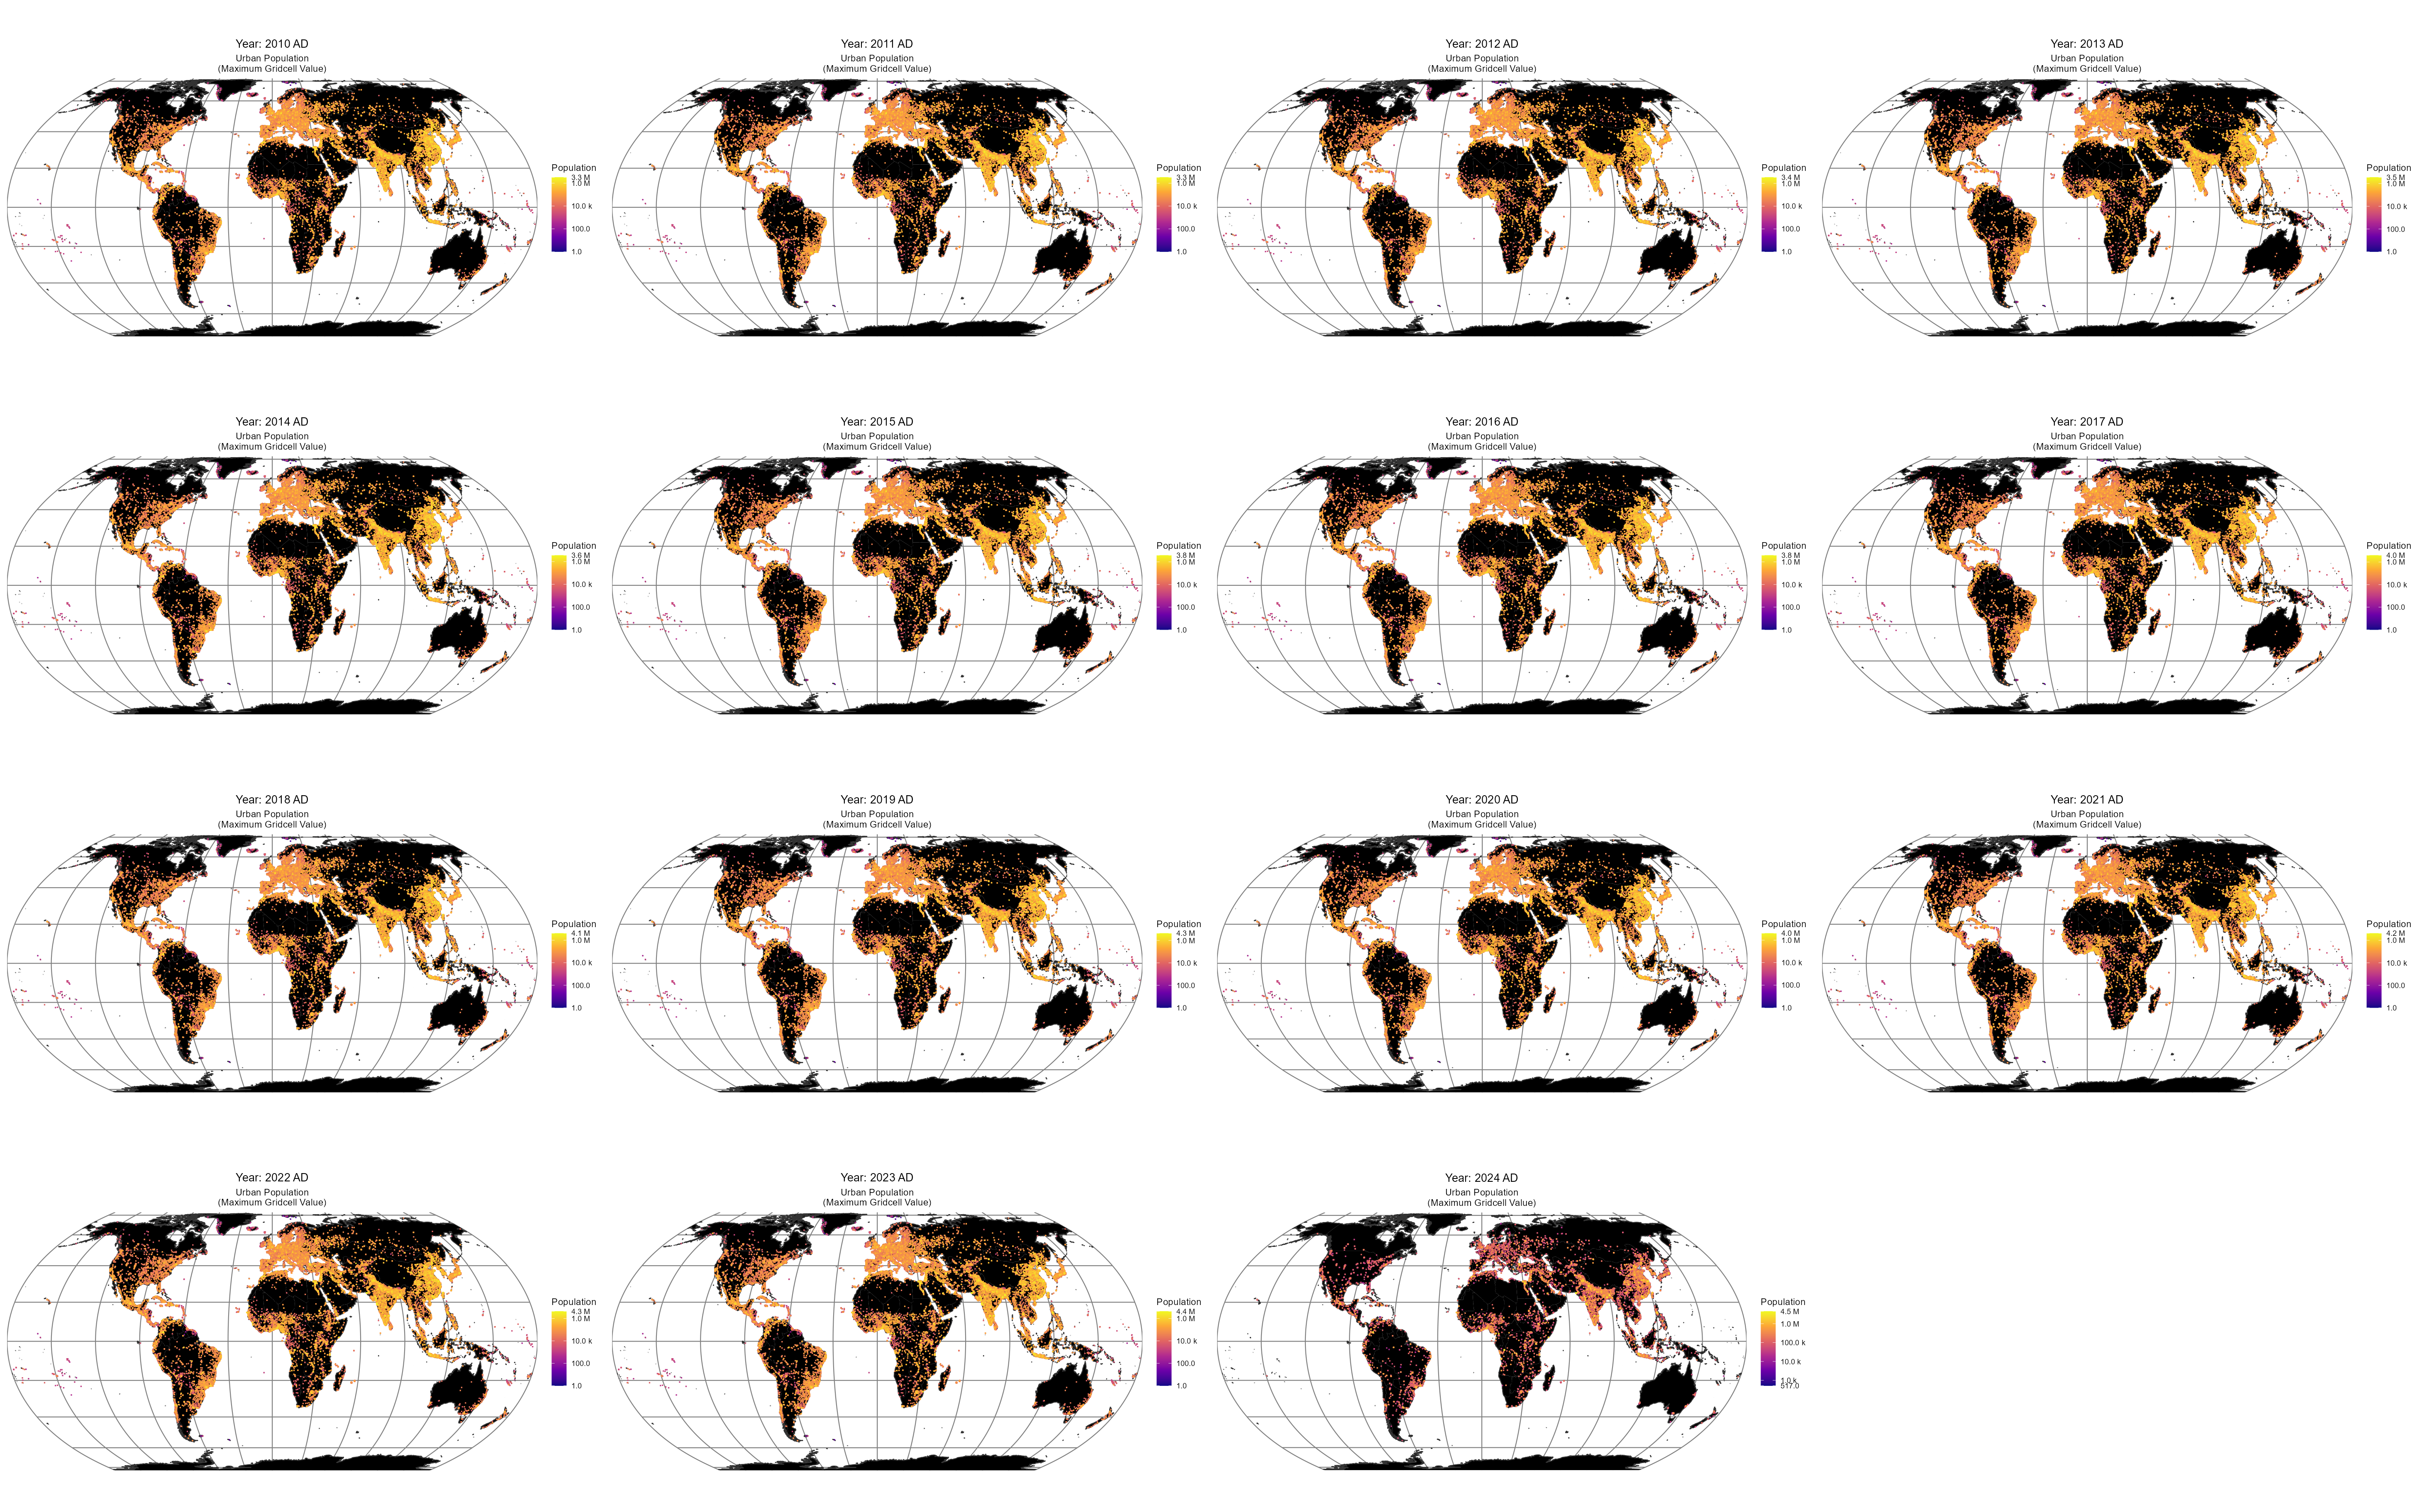
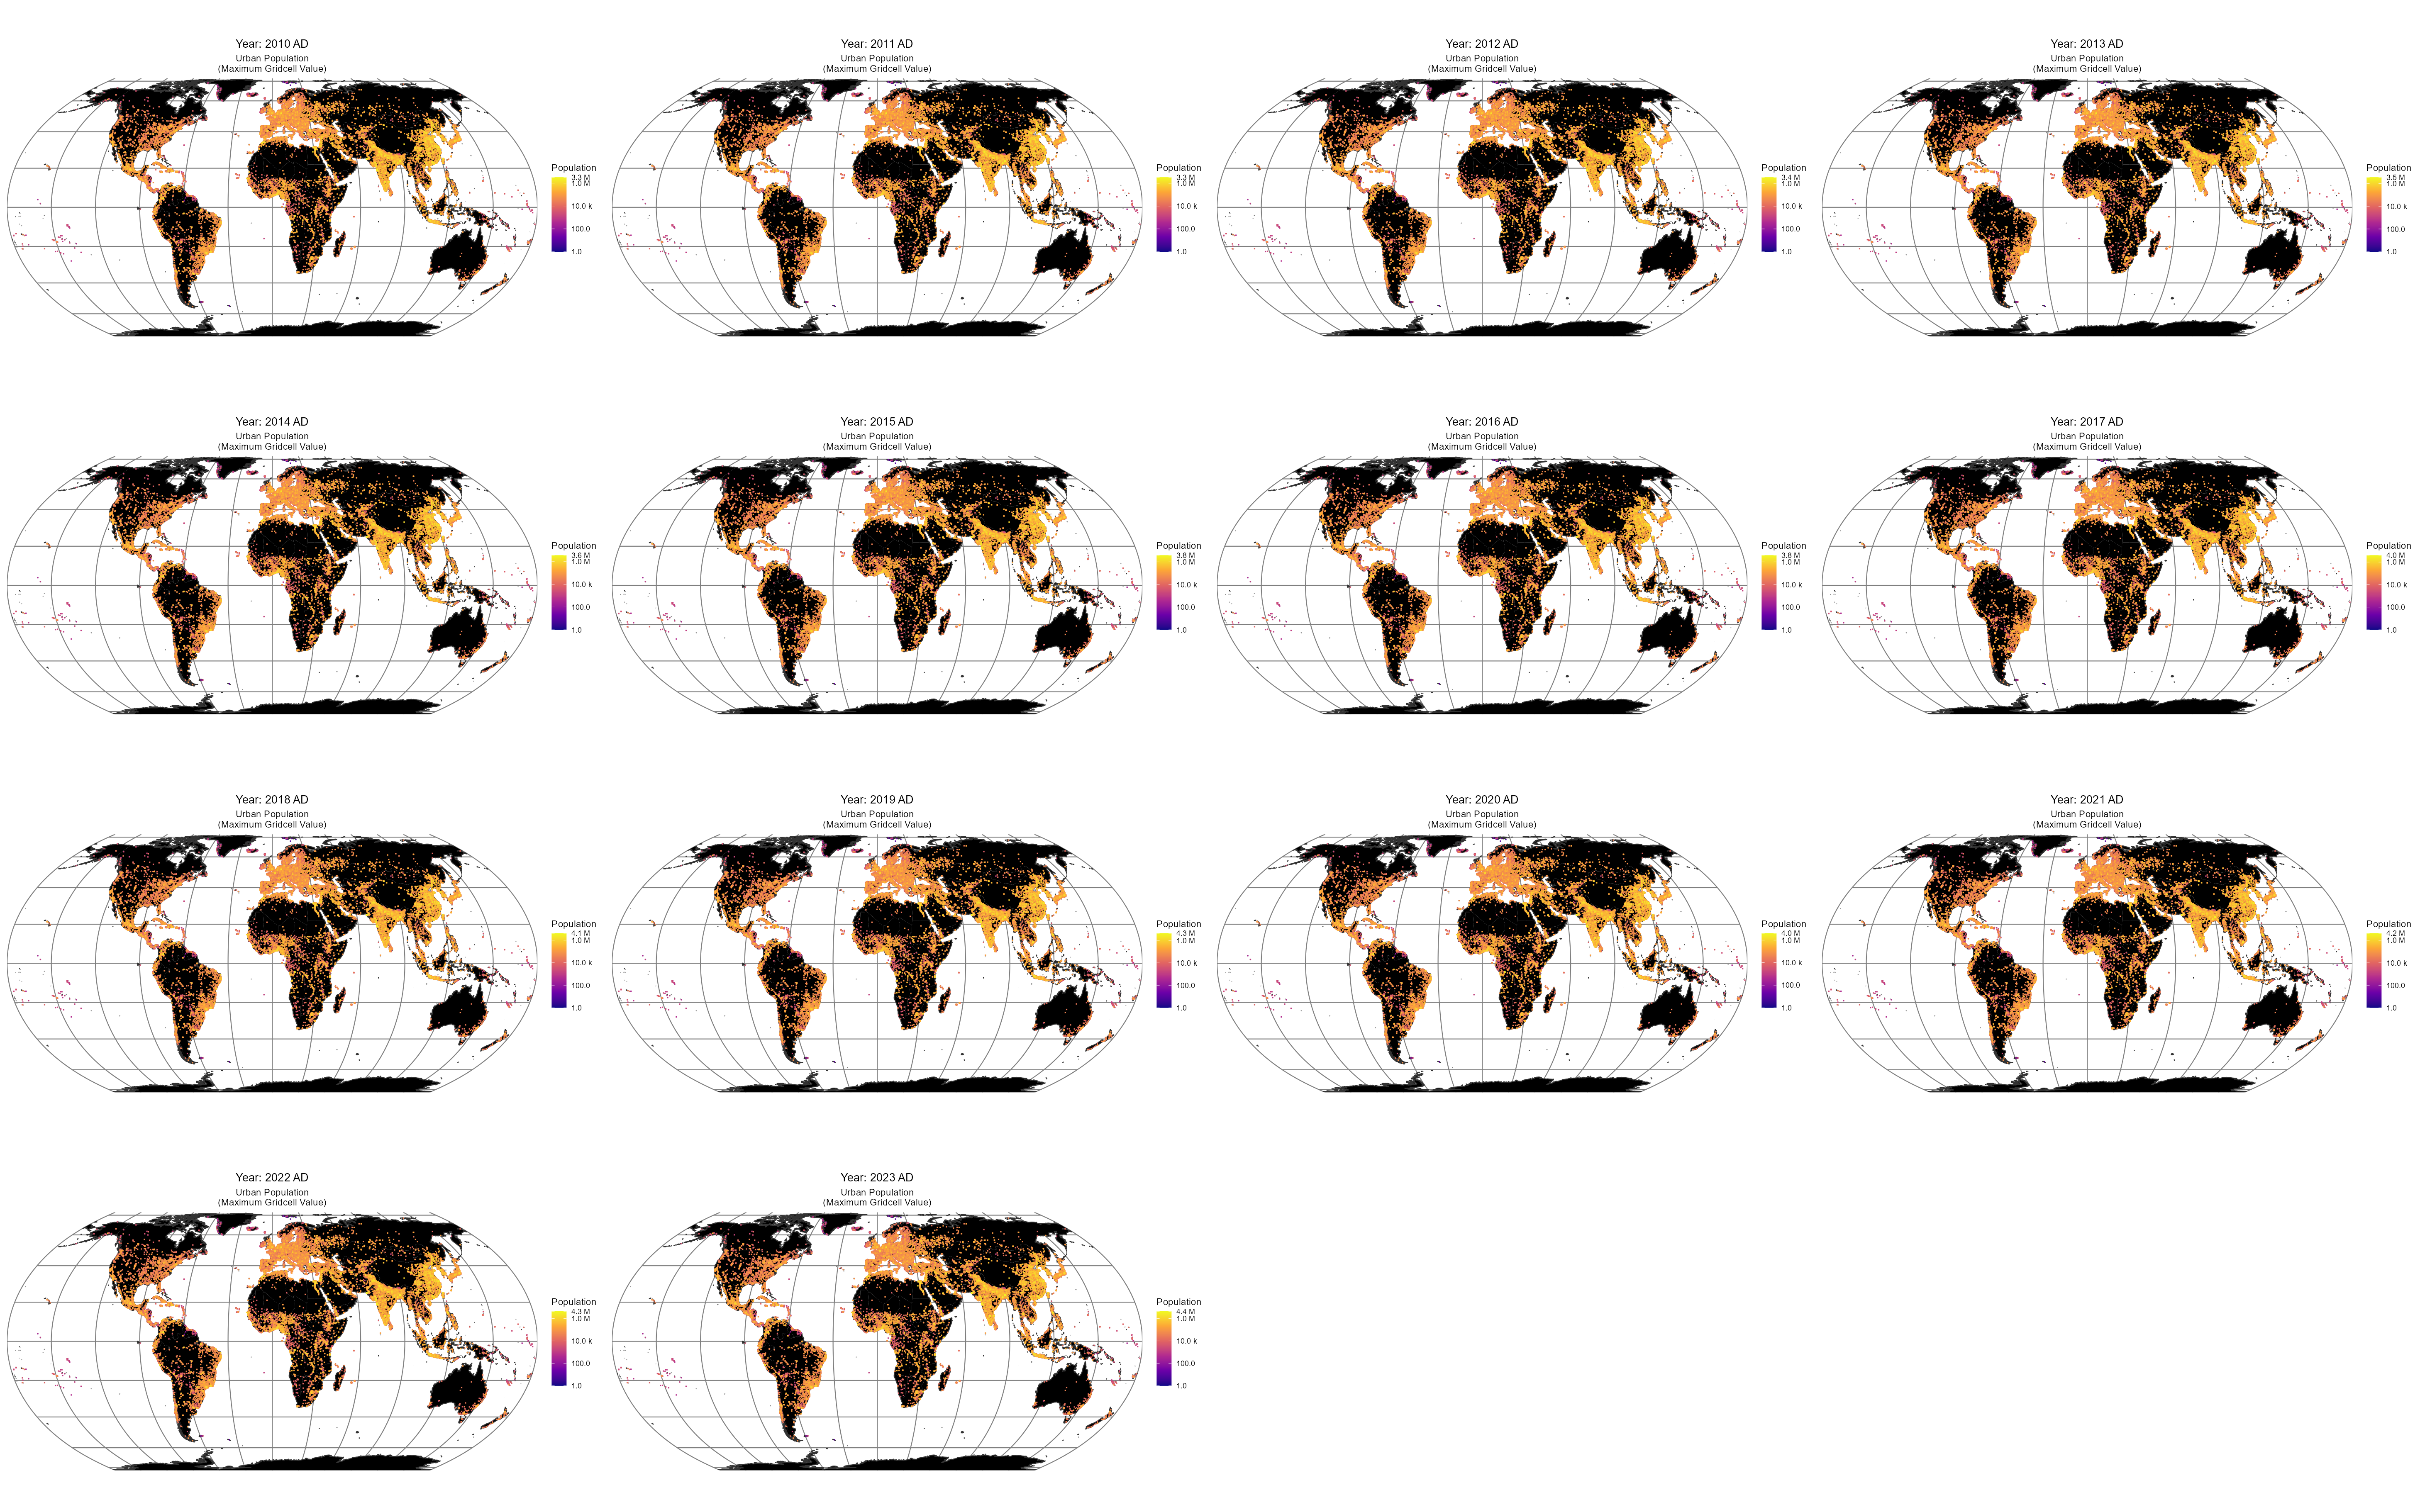
finished coding up everything

Changed region(s): [[0.5305, 0.775, 0.749, 0.992]]

diff --git a/core/framework/statvis/7_appendix/global_30_metro_vs_non_metro.js b/core/framework/statvis/7_appendix/global_30_metro_vs_non_metro.js
@@ -5,7 +5,10 @@
 		let options = (arg0_options) ? arg0_options : {};
 		
 		//Initialise options; encode Angel Global 30 keys for stadester_ghsl.json, stadester_ghsl_non_metro_corrected.json
-		options.global_30 = [
+		options.benchmark_years = (options.benchmark_years) ? options.benchmark_years : [
+			0, 500, 1000, 1500, 1600, 1700, 1800, 1850, 1900, 1950, 1975, 2000, 2025
+		];
+		options.global_30 = (options.global_30) ? options.global_30 : [
 			//1-5
 			["stadester-Accra-Ghana", "ghsl-Accra; Tema-Ghana"],
 			["stadester-El-Djazaïr-Algeria", "ghsl-Algiers; Kouba-Algeria"],
@@ -32,11 +35,125 @@
 			["stadester-Manila-Philippines", "ghsl-Quezon City; Manila; Caloocan; Antipolo; Taguig; Pasig; Valenzuela; Para�aque; Dasmari�as; San Jose del Monte; Las Pi�as; Bacoor; Makati; Muntinlupa; Marikina; Calamba; Mandaluyong; Pasay; Bi�an; Imus; Malabon; Santa Rosa; San Pedro; General Trias; Cabuyao; Malolos; Navotas; Meycauayan; Baliwag; Trece Martires; San Juan; Carmona; Cavite City-Philippines"],
 			["stadester-Ciudad de México-Mexico", "ghsl-Mexico City; Ecatepec; Nezahualc�yotl; Naucalpan de Ju�rez; Tlalnepantla; Chimalhuac�n; Atizap�n de Zaragoza; Ciudad L�pez Mateos; Cuautitlan Izcalli; Ojo de Agua; Xico; Ixtapaluca; Nicol�s Romero; Coacalco; Buenavista; Chalco de D�az Covarrubias; Huixquilucan de Degollado; Santa Fe; Interlomas-M�xico"],
 			["stadester-Moskva-Russia", "ghsl-Moscow; Balashikha; Mytishchi; Khimki; Korolyov; Lyubertsy; Krasnogorsk; Shchyolkovo; Dolgoprudny; Pushkino-Russia"],
-			["stadester-Mumbaî-India", "ghsl-Mumbai; Thane; Navi Mumbai; Bhiwandi-India"]
+			["stadester-Mumbaî-India", "ghsl-Mumbai; Thane; Navi Mumbai; Bhiwandi-India"],
 			
 			//20-25
+			["stadester-Nairobi-Kenya", "ghsl-Nairobi-Kenya"],
+			["stadester-Paris-France", "ghsl-Paris; Argenteuil; Saint-Denis; Boulogne-Billancourt; Montreuil-France"],
+			["stadester-Santiago-Chile", "ghsl-Santiago-Chile"],
+			["stadester-São Paulo-Brazil", "ghsl-S�o Paulo; Guarulhos; Sao Bernardo do Campo; Santo Andre; Osasco; Mogi das Cruzes; Mau�; Diadema; Carapicu�ba; Itaquaquecetuba; Barueri; Suzano; Cotia; Tabo�o da Serra; Embu das Artes; Itapevi; Ferraz de Vasconcelos; S�o Caetano do Sul; Itapecerica da Serra; Jandira; Ribeir�o Pires; Po�-Brazil"],
+			["stadester-Shanghai-China", "ghsl-Shanghai; Pudong; Taicang; Baoshan District; Putuo District; Changning District; Jing'an District; Xuhui District; Hongkou District; Huangpu District; Yangpu District; Qingpu; Songjiang; Minhang; Jiading; Fengxian District-China"],
 			
 			//25-30
-		]
+			["stadester-Sydney (agglomeration)-Australia", "ghsl-Sydney-Australia"],
+			["stadester-Tehrân-Iran", "ghsl-Tehran; Eslamshahr; Qods-Iran"],
+			["stadester-Tel Aviv-Yafo-Israel", "ghsl-Tel Aviv; Rishon LeZion; Petah Tikva; Holon; Bat Yam; Raanana; Kfar Saba-Israel"],
+			["stadester-Tôkyô-Japan", "ghsl-Tokyo; Yokohama; Kawasaki; Saitama; Chiba; Setagaya; Ota; Nerima; Adachi; Edogawa; Funabashi; Kawaguchi; Itabashi; Hachioji; Suginami; Koto; Ichikawa; Matsudo; Katsushika; Fujisawa; Machida; Shinagawa; Kashiwa; Yokosuka; Kawagoe; Kita; Shinjuku; Koshigaya; Tokorozawa; Nakano; Toshima; Meguro; Sumida; Ichihara; Fuchu; Hiratsuka; Minato; Soka; Chigasaki; Yamato; Kasukabe; Chofu; Shibuya; Bunkyo; Ageo; Atsugi; Arakawa; Taito; Nishitokyo; Yachiyo; Kodaira; Mitaka; Odawara; Nagareyama; Tachikawa; Narashino; Kamakura; Sakura; Hino; Hadano; Urayasu; Niiza; Chuo; Noda; Sayama; Kuki; Higashimurayama; Iruma; Tama; Asaka; Musashino; Koga; Misato; Toda; Abiko; Ebina; Zama; Kokubunji; Koganei; Konosu; Higashikurume; Fujimino; Akishima; Kamagaya; Fujimi; Toride; Sakado; Isehara; Yotsukaido; Inagi; Yashio; Higashiyamato; Ayase; Wako; Akiruno; Gyoda; Hanno; Komae; Kiyose; Okegawa; Kunitachi; Shiki; Warabi; Yoshikawa; Musashimurayama; Tsurugashima; Moriya; Kitamoto; Shiroi; Sodegaura; Hasuda; Fussa; Zushi; Hidaka; Hamura; Shiraoka; Satte; Chiyoda; Minamiashigara-Japan"],
+			["stadester-Warszawa-Poland", "ghsl-Warsaw-Poland"]
+		];
+		options.global_30_names = (options.global_30_names) ? options.global_30_names : [
+			"Accra", "Algiers", "Bangkok", "Beijing", "Buenos Aires",
+			"Cairo", "Chicago", "Guatemala", "Istanbul", "Jeddah",
+			"Johannesburg", "Kolkata", "Kuwait", "Lagos", "London",
+			"Los Angeles", "Manila", "Mexico", "Moscow", "Mumbai",
+			"Nairobi", "Paris", "Santiago", "Sao Paulo", "Shanghai",
+			"Sydney", "Tehran", "Tel Aviv", "Tokyo", "Warsaw"
+		];
+		
+		//Declare local instance variables
+		let common_defines = config.defines.common;
+		let stadester_ghsl_obj = FileManager.loadFileAsJSON(common_defines.output_file_paths.stadester_ghsl);
+		let stadester_ghsl_non_metro_obj = FileManager.loadFileAsJSON(common_defines.output_file_paths.stadester_ghsl_non_metro);
+		let return_array = [];
+		let return_obj = {};
+		
+		//Iterate over all elements in options.global_30
+		for (let i = 0; i < options.global_30.length; i++) {
+			let local_non_metro_population_obj = {};
+			let local_population_obj = {};
+			
+			//Iterate over all valid city keys and merge their population objects
+			for (let x = 0; x < options.global_30[i].length; x++) {
+				let local_metro_city = stadester_ghsl_obj[options.global_30[i][x]];
+				let local_non_metro_city = stadester_ghsl_non_metro_obj[options.global_30[i][x]];
+				
+				if (local_metro_city && local_metro_city.population) {
+					let all_population_keys = Object.keys(local_metro_city.population)
+						.map(Number).sort((a, b) => a - b);
+					
+					for (let y = 0; y < all_population_keys.length; y++) {
+						let local_value = local_metro_city.population[all_population_keys[y]];
+						
+						if (!local_population_obj[all_population_keys[y]]) local_population_obj[all_population_keys[y]] = [];
+						local_population_obj[all_population_keys[y]].push(local_value);
+					}
+				}
+				if (local_non_metro_city && local_non_metro_city.population) {
+					let all_population_keys = Object.keys(local_non_metro_city.population)
+						.map(Number).sort((a, b) => a - b);
+					
+					for (let y = 0; y < all_population_keys.length; y++) {
+						let local_value = local_non_metro_city.population[all_population_keys[y]];
+						
+						if (!local_non_metro_population_obj[all_population_keys[y]]) local_non_metro_population_obj[all_population_keys[y]] = [];
+						local_non_metro_population_obj[all_population_keys[y]].push(local_value);
+					}
+				}
+			}
+			
+			//Weighted geometric mean local_non_metro_population_obj; local_population_obj
+			//Iterate over all_local_non_metro_population_keys
+			let all_local_non_metro_population_keys = Object.keys(local_non_metro_population_obj);
+			
+			for (let i = 0; i < all_local_non_metro_population_keys.length; i++) {
+				let local_value = local_non_metro_population_obj[all_local_non_metro_population_keys[i]];
+				
+				if (local_value.length === 1) {
+					local_non_metro_population_obj[all_local_non_metro_population_keys[i]] = local_value;
+				} else {
+					local_non_metro_population_obj[all_local_non_metro_population_keys[i]] = weightedGeometricMean(local_value);
+				}
+			}
+			
+			//Iterate over all_local_population_keys
+			let all_local_population_keys = Object.keys(local_population_obj);
+			
+			for (let i = 0; i < all_local_population_keys.length; i++) {
+				let local_value = local_population_obj[all_local_population_keys[i]];
+				
+				if (local_value.length === 1) {
+					local_population_obj[all_local_population_keys[i]] = local_value[0];
+				} else {
+					local_population_obj[all_local_population_keys[i]] = weightedGeometricMean(local_value);
+				}
+			}
+			
+			return_obj[options.global_30_names[i]] = {
+				name: options.global_30_names[i],
+				non_metro_population: local_non_metro_population_obj,
+				population: local_population_obj
+			}
+		}
+		
+		//Push all population entries to return_array over options.benchmark_years
+		for (let i = 0; i < options.benchmark_years.length; i++) {
+			let all_return_keys = Object.keys(return_obj);
+			let local_obj = {};
+			
+			for (let x = 0; x < all_return_keys.length; x++) {
+				let local_city = return_obj[all_return_keys[x]];
+				
+				local_obj[`${local_city.name}, MA Pop.`] = returnSafeNumber(Math.round(local_city.population[options.benchmark_years[i]]));
+				local_obj[`${local_city.name}, N-MA Pop.`] = returnSafeNumber(Math.round(local_city.non_metro_population[options.benchmark_years[i]]));
+			}
+			
+			return_array.push({ "Year": options.benchmark_years[i], ...local_obj });
+		}
+		
+		//Save CSV to output table
+		FileManager.saveFileAsCSV(common_defines.output_file_paths.angel_30_table, return_array);
+		
+		//Return statement
+		return return_array;
 	};
 }

diff --git a/core/framework/stadester/stadester_ghsl_framework.js b/core/framework/stadester/stadester_ghsl_framework.js
@@ -1,0 +1,69 @@
+//Initialise functions
+{
+	global.getStadesterGHSLObject = function () {
+		//Declare local instance variables
+		let common_defines = config.defines.common;
+		let ghsl_obj = FileManager.loadFileAsJSON(common_defines.output_file_paths.ghsl_output);
+		let regions_obj = config.defines.regions;
+		let regions_raster = loadImage(common_defines.input_file_paths.voronoi_regions_file_path);
+		let stadester_obj = FileManager.loadFileAsJSON(common_defines.input_file_paths.stadester_output);
+		let return_obj = {};
+		
+		//Iterate over all_ghsl_cities in ghsl_obj; append all GHSL objects
+		let all_ghsl_cities = Object.keys(ghsl_obj);
+		
+		for (let i = 0; i < all_ghsl_cities.length; i++)
+			return_obj[`ghsl-${all_ghsl_cities[i]}`] = ghsl_obj[all_ghsl_cities[i]];
+		
+		//Iterate over all_stadester_cities in stadester_obj, prune any entries after 1975 from .area, .population, .density
+		let all_stadester_cities = Object.keys(stadester_obj);
+		
+		for (let i = 0; i < all_stadester_cities.length; i++) {
+			let local_city = stadester_obj[all_stadester_cities[i]];
+			let keys_to_truncate = ["area", "density", "population"];
+			
+			if (!local_city.coords) continue; //Internal guard clause if city has no coords
+			
+			for (let x = 0; x < keys_to_truncate.length; x++)
+				if (local_city[keys_to_truncate[x]]) {
+					let all_local_keys = Object.keys(local_city[keys_to_truncate[x]]);
+					
+					//Iterate over all_local_keys and delete any values after 1975
+					for (let y = 0; y < all_local_keys.length; y++)
+						if (parseInt(all_local_keys[y]) >= common_defines.ghsl_domain[0])
+							delete local_city[keys_to_truncate[x]][all_local_keys[y]];
+				}
+			
+			return_obj[`stadester-${all_stadester_cities[i]}`] = local_city;
+		}
+		
+		//Iterate over all_return_keys; assign .region
+		let all_return_keys = Object.keys(return_obj);
+		
+		for (let i = 0; i < all_return_keys.length; i++) {
+			let local_city = return_obj[all_return_keys[i]];
+			
+			if (!local_city.coords) continue; //Internal guard clause if .coords does not exist
+			local_city.pixel_coords = getEquirectangularCoordsPixel(local_city.coords[0], local_city.coords[1]);
+			local_city.pixel_coords = local_city.pixel_coords.map(Math.round);
+			
+			let local_index = (2160 - local_city.pixel_coords[1])*4*4320 + local_city.pixel_coords[0]*4;
+			let local_region = regions_obj[[
+				regions_raster.data[local_index],
+				regions_raster.data[local_index + 1],
+				regions_raster.data[local_index + 2]
+			].join(",")];
+			
+			if (local_region) {
+				local_city.colour = local_region.colour;
+				local_city.region = local_region.key;
+			}
+		}
+		
+		//Save file to JSON
+		FileManager.saveFileAsJSON(common_defines.output_file_paths.stadester_ghsl, return_obj);
+		
+		//Return statement
+		return return_obj;
+	};
+}

diff --git a/core/framework/statvis/4_testing_and_validation/stadester_top_120_rank.js b/core/framework/statvis/4_testing_and_validation/stadester_top_120_rank.js
@@ -46,73 +46,6 @@
 		return return_obj;
 	};
 	
-	global.getStadesterGHSLObject = function () {
-		//Declare local instance variables
-		let common_defines = config.defines.common;
-		let ghsl_obj = FileManager.loadFileAsJSON(common_defines.output_file_paths.ghsl_output);
-		let regions_obj = config.defines.regions;
-		let regions_raster = loadImage(common_defines.input_file_paths.voronoi_regions_file_path);
-		let stadester_obj = FileManager.loadFileAsJSON(common_defines.input_file_paths.stadester_output);
-		let return_obj = {};
-		
-		//Iterate over all_ghsl_cities in ghsl_obj; append all GHSL objects
-		let all_ghsl_cities = Object.keys(ghsl_obj);
-		
-		for (let i = 0; i < all_ghsl_cities.length; i++)
-			return_obj[`ghsl-${all_ghsl_cities[i]}`] = ghsl_obj[all_ghsl_cities[i]];
-		
-		//Iterate over all_stadester_cities in stadester_obj, prune any entries after 1975 from .area, .population, .density
-		let all_stadester_cities = Object.keys(stadester_obj);
-		
-		for (let i = 0; i < all_stadester_cities.length; i++) {
-			let local_city = stadester_obj[all_stadester_cities[i]];
-			let keys_to_truncate = ["area", "density", "population"];
-			
-			if (!local_city.coords) continue; //Internal guard clause if city has no coords
-			
-			for (let x = 0; x < keys_to_truncate.length; x++)
-				if (local_city[keys_to_truncate[x]]) {
-					let all_local_keys = Object.keys(local_city[keys_to_truncate[x]]);
-					
-					//Iterate over all_local_keys and delete any values after 1975
-					for (let y = 0; y < all_local_keys.length; y++)
-						if (parseInt(all_local_keys[y]) >= common_defines.ghsl_domain[0])
-							delete local_city[keys_to_truncate[x]][all_local_keys[y]];
-				}
-			
-			return_obj[`stadester-${all_stadester_cities[i]}`] = local_city;
-		}
-		
-		//Iterate over all_return_keys; assign .region
-		let all_return_keys = Object.keys(return_obj);
-		
-		for (let i = 0; i < all_return_keys.length; i++) {
-			let local_city = return_obj[all_return_keys[i]];
-			
-			if (!local_city.coords) continue; //Internal guard clause if .coords does not exist
-			local_city.pixel_coords = getEquirectangularCoordsPixel(local_city.coords[0], local_city.coords[1]);
-			local_city.pixel_coords = local_city.pixel_coords.map(Math.round);
-			
-			let local_index = (2160 - local_city.pixel_coords[1])*4*4320 + local_city.pixel_coords[0]*4;
-			let local_region = regions_obj[[
-				regions_raster.data[local_index],
-				regions_raster.data[local_index + 1],
-				regions_raster.data[local_index + 2]
-			].join(",")];
-			
-			if (local_region) {
-				local_city.colour = local_region.colour;
-				local_city.region = local_region.key;
-			}
-		}
-		
-		//Save file to JSON
-		FileManager.saveFileAsJSON(common_defines.output_file_paths.stadester_ghsl, return_obj);
-		
-		//Return statement
-		return return_obj;
-	};
-	
 	/**
 	 * getTopCityKeysForField() - Fetches the top city keys for a given field
 	 * (i.e. 'area'/'density'/'population').

diff --git a/common/defines/common_defines.js b/common/defines/common_defines.js
@@ -47,6 +47,7 @@ config.defines.common = {
     ghsl_urban_prefix: "GHSL_",
     
 		stadester_ghsl: "./output/stadester_ghsl.json",
+		stadester_ghsl_non_metro: "./output/stadester_ghsl_non_metro.json",
 		
 		//RASTERS
 		//Stadestér-Base
@@ -74,6 +75,7 @@ config.defines.common = {
 		urban_rural_population_csv: "./output/stadester_visualisations/2.background/global_urban_rural_population.csv",
 		
 		//4. Testing and Validation
+		angel_30_table: "./output/stadester_visualisations/4.testing_and_validation/angel_30.csv",
 		hyde_urbanisation_csv: "./output/stadester_visualisations/4.testing_and_validation/urban_and_rural_population.csv",
 		top_120_table: "./output/stadester_visualisations/4.testing_and_validation/stadester_top_120.json",
 		